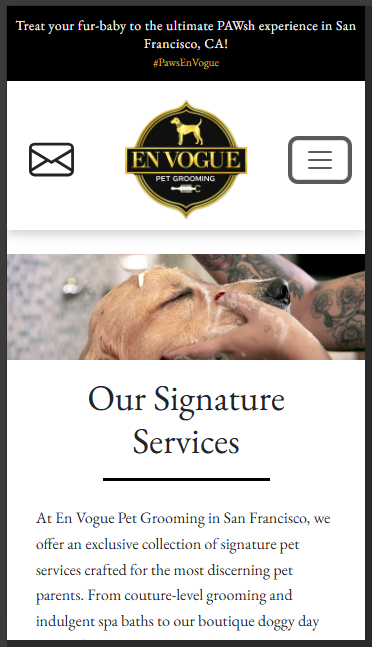
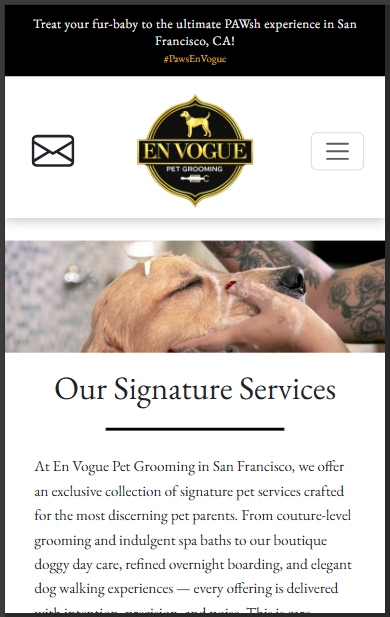
Restyled the mobile services intro section.

diff --git a/client/src/pages/Services/Services.jsx b/client/src/pages/Services/Services.jsx
@@ -40,25 +40,24 @@ export default function Services() {
             {/* INTRO */}
             <section className="services-page-intro mb-5">
                 <div className="container-fluid">
-                    <div className="row align-items-center">
+                    <div className="row">
 
-                        <div className="col-12 col-md-5 d-flex justify-content-center services-h1-col-container">
-                            <h1 className="display-3 mb-0 service-intro-h1 d-none d-md-flex">Our <br />Signature<br />Services</h1>
-                            <h1 className="display-3 d-block d-md-none mb-0 service-intro-h1">Our Signature<br /><span className="d-block text-center">Services</span></h1>
+                        <div className="col-12 col-md-5 services-h1-col-container">
+                            <h1 className="display-3 service-intro-h1-M2L">Our <br />Signature<br />Services</h1>
+                            <h1 className="display-4 service-intro-h1-SM">Our Signature Services</h1>
                         </div>
 
                         {/* DESKTOP VERTICAL DIVIDER */}
-                        <div className="d-none d-md-flex col-md-2 justify-content-center">
-                            <div className="services-divider"></div>
-                        </div>
+                        {/* <hr className="services-intro-hr-M2L"/> */}
 
                         {/* MOBILE HORIZONTAL DIVIDER */}
-                        <div className="d-block d-md-none col-12">
-                            <div className="services-divider-mobile"></div>
+                        <div className="container">
+                            <hr className="services-intro-hr-SM"/>
                         </div>
-
-                        <div className="col-12 col-md-5 d-flex justify-content-center">
-                            <p className="mb-0 services-intro-p">At En Vogue Pet Grooming in San Francisco, we offer an exclusive collection of 
+                        
+ 
+                        <div className="col-12 col-md-5 services-intro-p-container">
+                            <p className="services-intro-p">At En Vogue Pet Grooming in San Francisco, we offer an exclusive collection of 
                             signature pet services crafted for the most discerning pet parents. From couture-level grooming and indulgent spa baths to our boutique doggy day care, 
                             refined overnight boarding, and elegant dog walking experiences — every offering is delivered with intention, precision, and poise. 
                             This is care reimagined — where wellness meets sophistication, and every visit feels like a five-star retreat for your cherished companion.
@@ -87,3 +86,4 @@ export default function Services() {
 
 
 }
+{/* <br /><span className="services-h1-sm-span">Services</span> */}

diff --git a/client/src/pages/Services/Services.css b/client/src/pages/Services/Services.css
@@ -5,28 +5,43 @@
     margin-bottom: -8px;
 }
 
-.service-intro-h1 {
+.service-intro-h1-SM {
     font-family: var(--font-heading);
+    margin-bottom: 30px;
+    text-align: center;
 }
 
-.services-divider-mobile {
-    border: none;
-    border-top: 3px solid #000;
-    width: 50%;
-    margin: 1.5rem auto;
-    opacity: 1;
+.services-intro-hr-SM {
+  width: 50%;
+  margin: 0 auto;
+  margin-bottom: 25px;
+  border: 0;
+  border-top: 3px solid #000;
+  opacity: 1;
+
+
 }
 
+.services-intro-p-container {
+    display: flex;
+    align-items: center;
+    justify-content: center;
+}
 .services-intro-p {
     font-size: 1rem;
     line-height: 1.6;
-    max-width: 85%;
-    margin: 0 auto;
+    max-width: 90%;
     font-family: var(--font-body);
+    text-align: left;
 }
 
 /************************** MEDIA QUERIES **************************/
+@media (max-width: 767px) {
+    .service-intro-h1-M2L {
+        display: none;
+    }
+}
 /************ MEDIUM SCREENS ************/
 @media (min-width: 768px) {
-    
+
 }

diff --git a/README.md b/README.md
@@ -40,7 +40,7 @@ UI sections from V1.
 
 ![Mobile Services Hero](docs/screenshots/navbar/mobile_services_hero_section.png)
 
-### Mobile - Expanded
+### Mobile - Navbar Expanded
 
 ![Mobile Navbar Expanded](docs/screenshots/navbar/mobile_navbar_expanded.png)
 
